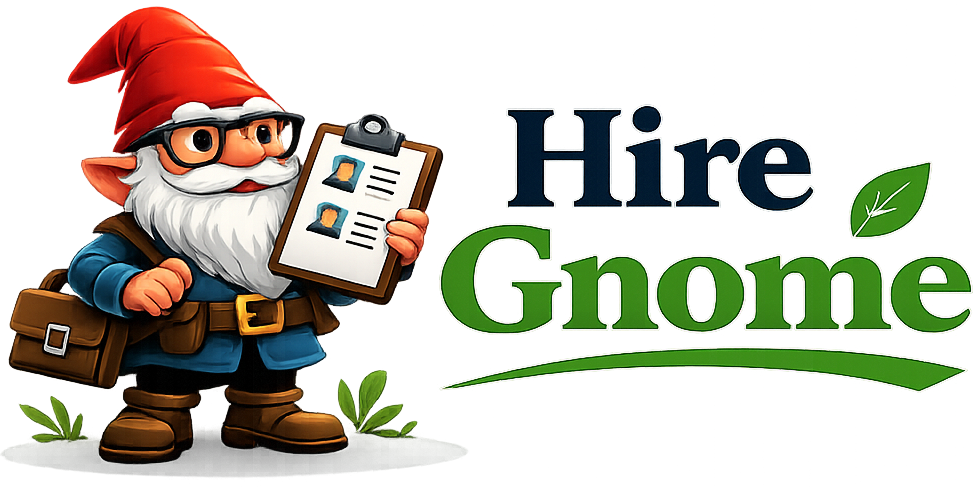
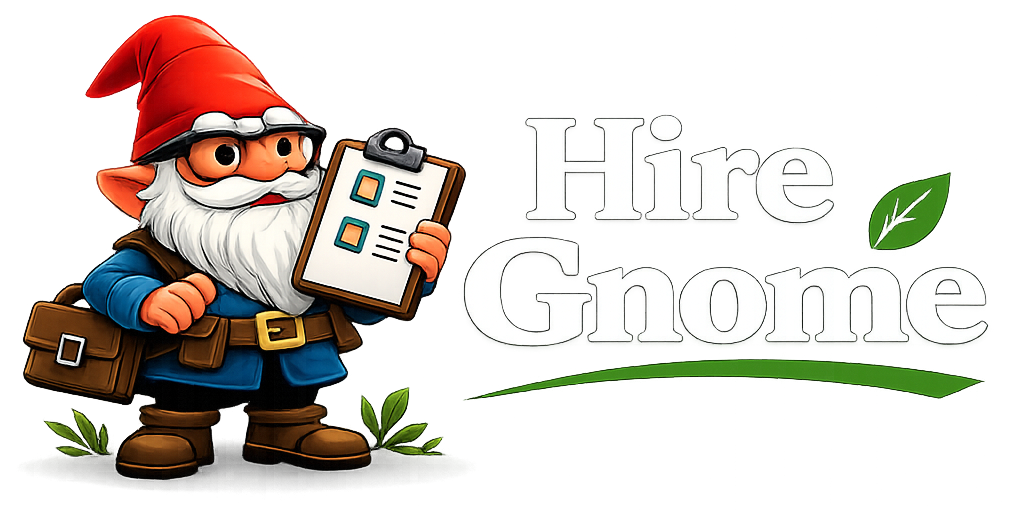
updated default branding

diff --git a/app/globals.css b/app/globals.css
@@ -790,17 +790,19 @@ p {
 }
 
 .brand-block {
-	padding: 0.9rem;
-	border-radius: 14px;
-	background: #f4f8fc;
-	border: 1px solid #ccd9ea;
-	box-shadow: 0 4px 12px rgba(9, 31, 59, 0.18);
+	padding: 0.65rem 0.75rem;
+	border-radius: 12px;
+	background: rgba(255, 255, 255, 0.1);
+	border: 1px solid rgba(217, 232, 255, 0.22);
+	backdrop-filter: blur(4px);
 	color: var(--ink);
 	margin-bottom: 1rem;
 }
 
 .brand-link {
-	display: block;
+	display: flex;
+	align-items: center;
+	justify-content: center;
 	text-decoration: none;
 }
 
@@ -808,7 +810,7 @@ p {
 	display: block;
 	width: 100%;
 	height: auto;
-	max-height: 104px;
+	max-height: 76px;
 	object-fit: contain;
 }
 
